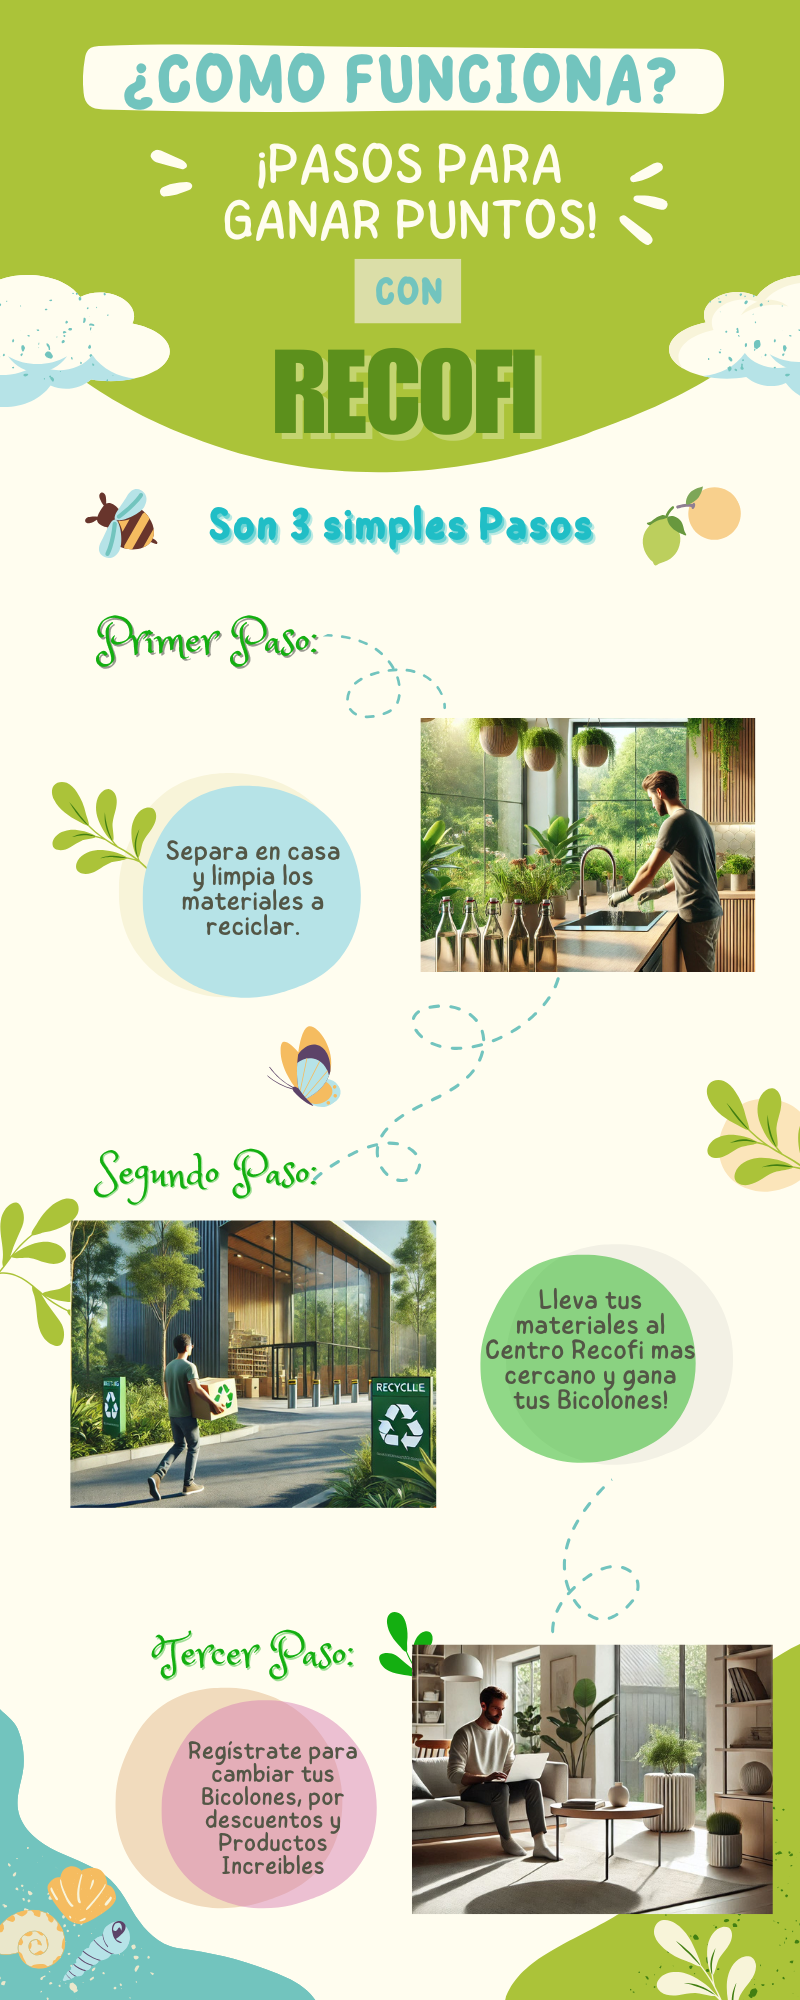
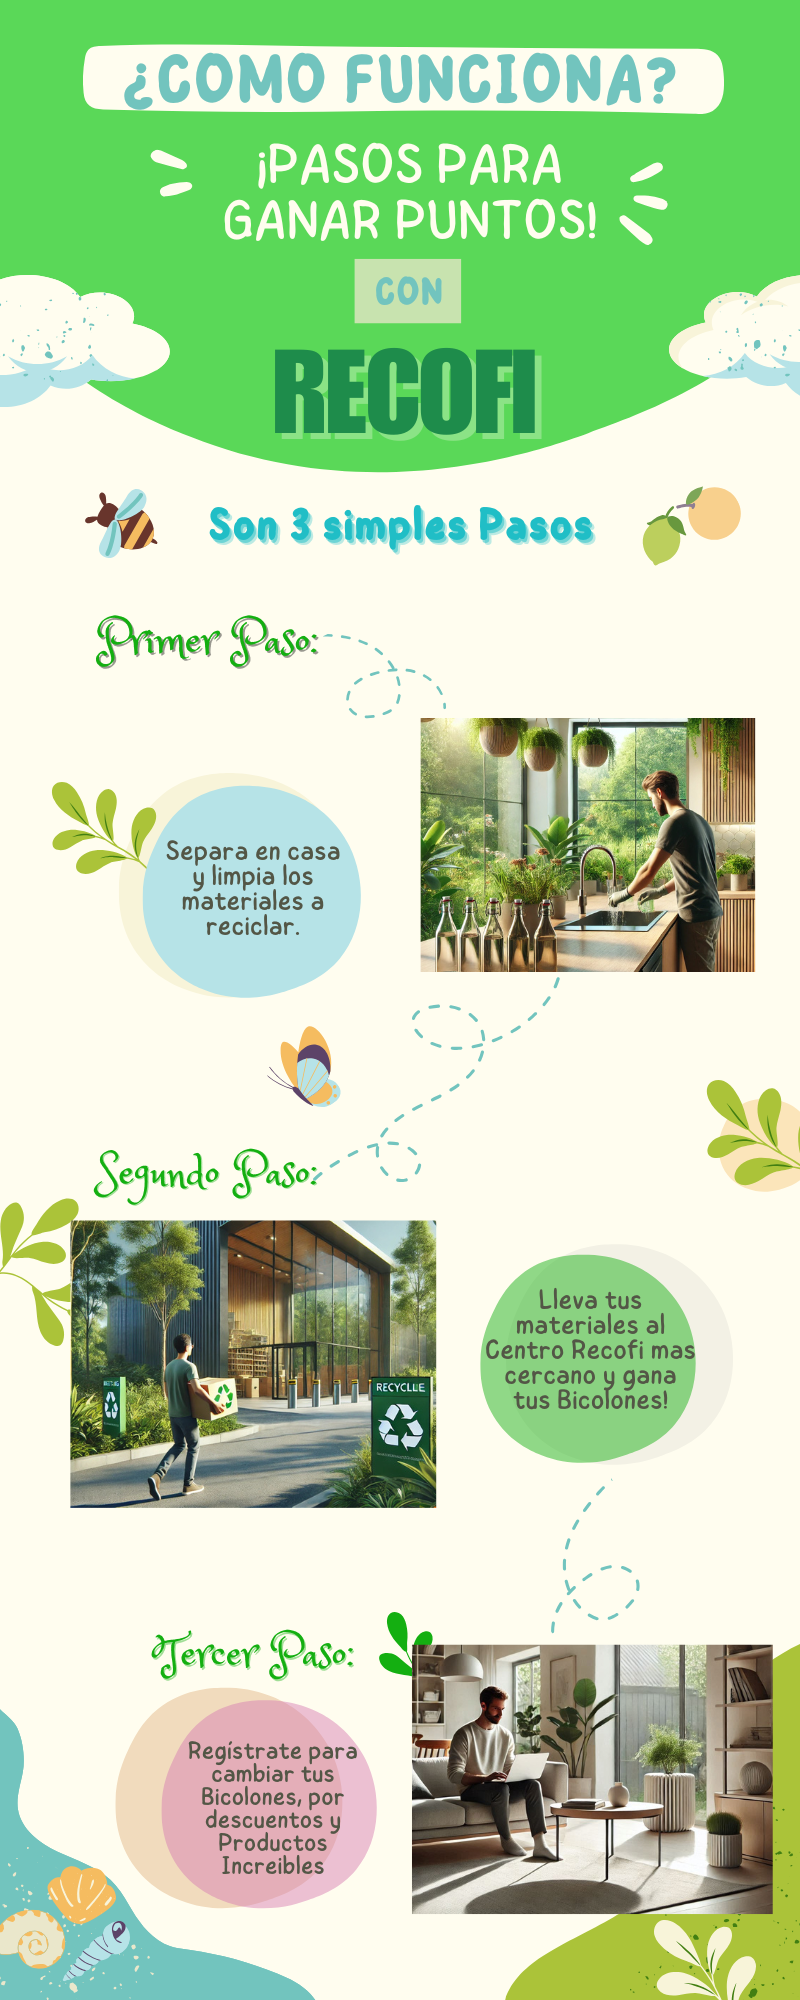
Arreglos de CSS

Changed region(s): [[0.0, 0.0, 1.0, 0.248]]

diff --git a/FE_Ecofi/src/styles/Sidebar.css b/FE_Ecofi/src/styles/Sidebar.css
@@ -1,76 +1,86 @@
-/* Contenedor Principal del Sidebar */
+/* Estilo básico */
 .sidebarContainer {
-  width: 200px; /* Ancho del Sidebar */
-  height: 100vh; /* Altura completa de la pantalla */
-  background: linear-gradient(135deg, #089103, #47ce42); /* Fondo degradado elegante */
-  box-shadow: 2px 0 10px rgba(0, 0, 0, 0.1); /* Sombra ligera */
-  padding-top: 20px; /* Espaciado superior */
-  display: flex;
-  flex-direction: column;
-  position: sticky; /* Se queda visible mientras haces scroll */
-  top: 0; /* El punto superior donde se 'pega' al hacer scroll */
+  position: fixed;
+  top: 0;
+  left: -250px;
+  width: 250px;
+  height: 100%;
+  background-color: #16e227;
+  color: white;
+  transition: left 0.3s ease-in-out;
+  z-index: 1000;
 }
 
+.sidebarContainer.open {
+  left: 0;
+}
 
-/* Navegación dentro del Sidebar */
 .sidebarNav {
   display: flex;
   flex-direction: column;
-  margin-top: 8rem;
-  gap: 10px; /* Espaciado entre enlaces */
-
+  padding: 20px;
 }
 
-#tituloSideBar{
-
-  font-family: 'Lucida Sans';
-  font-size: 2.5rem;
-  font-weight: 800;
-  display: block;
-  margin-left: auto;
-  margin-right: auto;
-  color: #e5ece5;
-  margin-bottom: 0px;
-  margin-top: 0px;
-
-}
-
-#hrSideBar{
-  border: 4px solid rgb(2, 54, 2);
-
-}
-
-
-/* Enlaces del Sidebar */
 .sidebarLink {
-  text-decoration: none; /* Sin subrayado */
-  color: #eff4f8; /* Color del texto */
-  padding: 15px 20px; /* Espaciado interno */
-  font-size: 23px; /* Tamaño de texto */
-  font-weight: 500; /* Peso del texto */
-  display: block; /* Ocupa todo el ancho */
-  border-left: 4px solid transparent; /* Indicador inactivo */
-  transition: all 0.3s ease; /* Animación suave */
-}
-
-/* Hover y Enfoque */
-.sidebarLink:hover,
-.sidebarLink:focus {
-  background-color: #eaf0f6; /* Fondo claro al pasar el cursor */
-  color: #06581b; /* Texto azul elegante */
-  border-left: 4px solid #6ab04c; /* Indicador verde lateral */
-}
-
-/* Enlace Activo */
-.sidebarLink.active {
-  background-color: #d40808; /* Fondo del enlace activo */
-  color: #2d98da; /* Texto azul elegante */
-  border-left: 4px solid #6ab04c; /* Indicador lateral */
+  color: white;
+  text-decoration: none;
+  margin: 10px 0;
 }
 
 
 
+/* Botones */
+/* Botones */
+.menuButton {
+  position: fixed;
+  top: 10px;
+  font-size: 24px;
+  background: none;
+  border: none;
+  color: #333;
+  cursor: pointer;
+  z-index: 1001;
+  padding: 5px;
+  border-radius: 50%;
+  display: none; /* Oculto por defecto */
+}
 
+.closeButton {
+  display: none;
+  font-size: 24px;
+  color: white;
+  background: none;
+  border: none;
+  cursor: pointer;
+  margin-bottom: 20px;
+  align-self: flex-end;
+}
 
+.sidebarContainer.open .closeButton {
+  display: block;
+}
 
+/* Responsive Design */
+@media (max-width: 768px) {
+  .menuButton {
+    position: fixed; /* Asegurando que esté fijo en la esquina superior izquierda */
+    top: 10px; /* Ajuste para mantenerlo en la esquina superior */
+    left: 10px; /* Ajuste para mantenerlo en la esquina izquierda */
+    display: block; /* Muestra el botón en pantallas pequeñas */
+  }
 
+  .sidebarContainer {
+    width: 250px;
+  }
+}
+
+@media (min-width: 769px) {
+  .menuButton {
+    display: none;
+  }
+
+  .sidebarContainer {
+    left: 0;
+    width: 250px;
+  }
+}

diff --git a/FE_Ecofi/src/Componentes/SideBar.jsx b/FE_Ecofi/src/Componentes/SideBar.jsx
@@ -1,37 +1,50 @@
-import React from "react";
+import React, { useState } from "react";
 import { Link } from "react-router-dom";
-import '../styles/SideBar.css'
-
-
-
+import "../styles/SideBar.css";
 
 function AdminSideBar() {
+  const [isOpen, setIsOpen] = useState(false);
+
+  const toggleSidebar = () => {
+    setIsOpen(!isOpen);
+  };
+
   return (
-    <div className="sidebarContainer">
-      <nav className="sidebarNav">
-        <h4 id="tituloSideBar" >Menú</h4>
-        <hr id="hrSideBar"/>
-        <Link id="SideText" className="sidebarLink" to="/Administracion">
-          Agregar Productos
-        </Link>
-        <Link className="sidebarLink" to="/AgregarAdmin">
-          Agregar Administradores
-        </Link>
-        <Link className="sidebarLink" to="/AgregarRecofi">
-          Agregar Recofis
-        </Link>
-        <Link className="sidebarLink" to="/AgregarEmpren">
-          Agregar Emprendedor
-        </Link>
-        <Link className="sidebarLink" to="/Editarusuarios">
-          Edición de Usuarios
-        </Link>
-        <Link className="sidebarLink" to="/Hrecoleccion">
-          Estadísticas de Recolección
-        </Link>
-        
-      </nav>
-    </div>
+    <>
+      <button
+        className="menuButton"
+        onClick={toggleSidebar}
+      >
+        ☰
+      </button>
+      <div className={`sidebarContainer ${isOpen ? "open" : ""}`}>
+        <button className="closeButton" onClick={toggleSidebar}>
+          ✖
+        </button>
+        <nav className="sidebarNav">
+          <h4 id="tituloSideBar">Menú</h4>
+          <hr id="hrSideBar" />
+          <Link id="SideText" className="sidebarLink" to="/Administracion">
+            Agregar Productos
+          </Link>
+          <Link className="sidebarLink" to="/AgregarAdmin">
+            Agregar Administradores
+          </Link>
+          <Link className="sidebarLink" to="/AgregarRecofi">
+            Agregar Recofis
+          </Link>
+          <Link className="sidebarLink" to="/AgregarEmpren">
+            Agregar Emprendedor
+          </Link>
+          <Link className="sidebarLink" to="/Editarusuarios">
+            Edición de Usuarios
+          </Link>
+          <Link className="sidebarLink" to="/Hrecoleccion">
+            Estadísticas de Recolección
+          </Link>
+        </nav>
+      </div>
+    </>
   );
 }
 

diff --git a/FE_Ecofi/src/routes/Routing.jsx b/FE_Ecofi/src/routes/Routing.jsx
@@ -2,7 +2,7 @@ import { BrowserRouter as Router, Routes, Route } from "react-router-dom";
 import Login from "../pages/Login";
 import Register from "../Pages/Register";
 import Principal from "../Pages/Principal";
-import BodyBackground from "../Componentes/BodyBackground";
+// import BodyBackground from "../Componentes/BodyBackground";
 import Administracion from "../Pages/Administracion";
 import Recofi from "../Pages/Recofi";
 import Emprendedores from "../Pages/AgregarEmprendedores";
@@ -18,13 +18,11 @@ import Beneficio from "../Pages/Beneficio";
 import Perfil_Usuario from  "../Pages/Perfil_Usuario"
 
 const Routing = () => {
-  // Definir el fondo para la página Principal
-  const backgroundImage = "../src/img/fondo3.jpeg"; // Ajusta la ruta de la imagen según lo necesario
+
 
   return (
     <Router>
-      {/* Aplica el fondo solo en Principal */}
-      <BodyBackground background={backgroundImage} />
+      
       
       <Routes>
         <Route path="/Principal" element={<Principal />} />

diff --git a/FE_Ecofi/src/Componentes/BodyBackground.jsx b/FE_Ecofi/src/Componentes/BodyBackground.jsx
@@ -1,18 +1,18 @@
-import React, { useEffect } from "react";
+// import React, { useEffect } from "react";
 
-const BodyBackground = ({ background }) => {
-  useEffect(() => {
-    if (background) {
-      document.body.style.backgroundImage = `url(${background})`;
-    }
+// const BodyBackground = ({ background }) => {
+//   useEffect(() => {
+//     if (background) {
+//       document.body.style.backgroundImage = `url(${background})`;
+//     }
 
-    // Limpieza
-    return () => {
-      document.body.style.backgroundImage = './src/img/fondo3.jpeg';
-    };
-  }, [background]);
+//     // Limpieza
+//     return () => {
+//       document.body.style.backgroundImage = './src/img/fondo3.jpeg';
+//     };
+//   }, [background]);
 
-  return null;
-};
+//   return null;
+// };
 
-export default BodyBackground;
+// export default BodyBackground;

diff --git a/FE_Ecofi/src/styles/Admin.css b/FE_Ecofi/src/styles/Admin.css
@@ -5,6 +5,7 @@
   grid-template: 120px 2fr 300px;
   background-color: #fdfdfdcc;
 }
+
 .navbar {
   position: fixed; 
   top: 0; 
@@ -26,6 +27,8 @@
   color: #124702; 
   text-transform: uppercase;
 }
+
+
 
 
  #adminTit{
@@ -233,7 +236,7 @@
   background-color: #45a049;
 } 
 
- @media (max-width: 600px) {
+ @media (max-width: 768px) {
   #form-agregar-producto {
     width: 100%;
     padding: 15px;
@@ -261,6 +264,9 @@
   #product-list-container {
     flex-direction: column;
     align-items: center;
+  }
+  .navbar { 
+    display: none;
   }
 }
 

diff --git a/FE_Ecofi/src/styles/Principal.css b/FE_Ecofi/src/styles/Principal.css
@@ -5,7 +5,8 @@
   gap: 1rem; /* Espaciado entre filas */
   height: 100vh; /* Altura de la pantalla */
   width: 100%; /* Ancho completo */
-  background-color: #fdfdfdb7;
+  background: rgb(25,212,40);
+background: radial-gradient(circle, rgba(2, 255, 23, 0.936) 0%, rgba(71,232,247,0.7091211484593838) 100%);
 }
   /* General navbar styling */
   .navbar {
